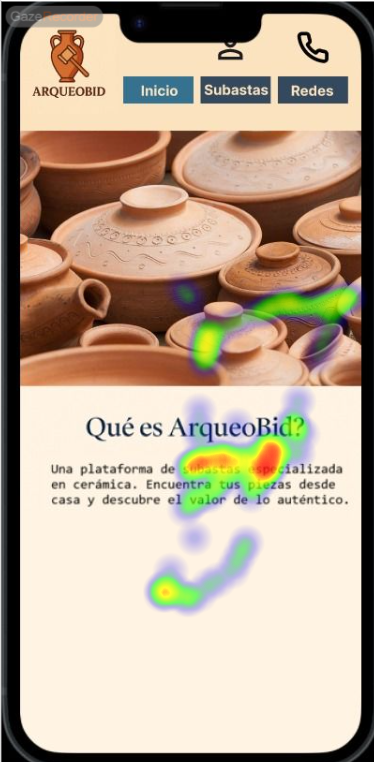
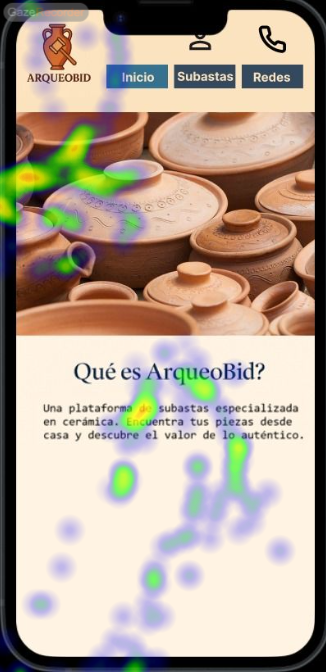
Arreglado problema de visualización del eye-tracking del caso B

diff --git a/P4/Usability-Report-template.md b/P4/Usability-Report-template.md
@@ -1,93 +1,80 @@
 # Usability Report
 
-<img src="https://github.com/DIU3-CarlonsoTech/UX_CaseStudy/blob/master/P2/Logo.png" alt="usability Download png" style="width: 25%; height: auto;" />
+<img src="https://encrypted-tbn0.gstatic.com/images?q=tbn:ANd9GcRF017nhV-TFmNER2OM8UbXtdN6xwAKBYrv0i6onNfKu6Yn0BV0RK6aiOroeXl73LSY-B0&usqp=CAU" alt="usability Download png" style="zoom:50%;" />
 
 #### Evaluación de usabilidad del proyecto 
 ### ArqueoBid
 ### 30/05/25
 
-
-
-
-
-[img Proyecto]
+<img src="https://github.com/DIU3-CarlonsoTech/UX_CaseStudy/blob/master/P2/Logo.png" alt="usability Download png" style="width: 25%; height: auto;" />
 
 [Enlace a GITHUB del proyecto](https://github.com/DIU3-CarlonsoTech/UX_CaseStudy)
 
 
-
-
-
 ### Realizado por:
 
-[Informe realizado por Equipo (quien hace el report) explicar brevemente vuestra experiencia ]
-
-
-
-
-
-
-
-
-
+* :bust_in_silhouette:  Javier García Valderrama (https://github.com/NoVa-5516)    :octocat:     
+* :bust_in_silhouette:  Rubén Hidalgo Troyano (https://github.com/RuHiTro)     :octocat:
 
 
 ## 1 DESCRIPCIÓN DEL WEBSITE
 
-[Incluir un breve resumen el propósito de la App]
-
- 
-
+El proyecto ArqueoBid tiene por objetivo la adición de un sistema de subastas a la plataforma Kerarqueo, permitiendo así que compradores y vendedores intercambien piezas arqueológicas. La intención de la propuesta es fomentar la difusión y preservación del patrimonio arqueológico mediante un entorno digital especializado.
 
 
 ## 2 RESUMEN EJECUTIVO
 
+Este documento es un informe de usabilidad, que contiene los resultados de un estudio realizado de forma comparativa (por A/B Testing) entre nuestra propuesta y esta. A continuación se detallarán la metodología seguida, además de exponer las conclusiones obtenidas a raíz de los resultados del estudio.
 
-
-[ Breve descripción de lo que contiene el documento 
-
-y Resumen conciso de problemas detectados ]
-
-
-
-
-
-
-
-
+A modo de resumen breve de los problemas encontrados, muchos de los usuarios reportaron tener problemas con ciertos elementos de la interfaz. Entre otras cosas, también se ha detectado que algunas partes importantes
+del diseño no han logrado captar la atención de los usuarios.
 
 ## 3 METODOLOGIA 
 
 #### Metodología de usabililidad
 
-[Metodología, sesiones,  técnicas aplicadas... ]
+Este estudio se ha basado en emplear A/B Testing para, de forma comparativa, analizar y evaluar la usabilidad tanto de nuestra propuesta como la valorada en este informe.
 
+Para este estudio concreto, se han usado varios tipos de pruebas, entrelazados de modo que se obtuviesen la mayor cantidad de datos útiles posibles: preguntas previas -> eye-tracking -> tareas en prototipo -> preguntas posteriores. Para poder crear y realizar las pruebas, han sido necesarias herramientas como Maze (https://maze.co/) o GazeRecorder (https://gazerecorder.com/).
+
+Debido a la naturaleza de este estudio, las pruebas fueron diseñadas para poder ejecutarse de forma remota o presencial, con las debidas instrucciones dadas a los usuarios para que pudieran realizar su aportación debidamente.
  
 
 #### Test de usuarios: Participantes
 
-[tabla, ejemplo, descripción demográfica de los participantes]
+Estos fueron los usuarios reclutados para la realización del estudio mediante A/B Testing:
 
-
-
+| # Id Usuario  | Sexo/Edad | Ocupación   |  Exp.TIC    | Plataforma | Caso
+| ------------- | --------- | ----------- | ----------- | ---------- | ----
+| 1  | H / 21    | Estudiante universitario  | Alta        | Web, remoto       | A 
+| 2  | M / 23    | Cajera de supermercado      | Media       | Web, remoto        | A 
+| 3  | M / 45    | Limpiadora     | Baja        | Web, presencial      |  A
+| 4  | H / 16    | Estudiante de secundaria | Media       | Web, presencial        | B 
+| 5  | H / 59    | Supervisor de ventas | Media-baja       | Web, presencial        | B 
 
 
 #### Resultados obtenidos
 
+##### Preguntas previas y posteriores (mediante Maze)
+
+A través de una serie de preguntas previas, se ha determinado que los usuarios reclutados para valorar el caso B no suelen adquirir artículos por Internet con demasiada frecuencia y que ninguno ha asistido alguna vez a una subasta de productos.
+
+Con las preguntas posteriores realizadas, los usuarios han mostrado de forma unánime su descontento con el posicionamiento del icono de acceso a la pantalla de perfil, el cual estaba parcialmente cubierto por el marco del prototipo. Otro aspecto en el que se han puesto de acuerdo los usuarios es la facilidad de uso con la que cuenta la aplicación.
+
+##### Eye-tracking (mediante GazeRecorder)
+
+A continuación, se muestran los resultados de eye-tracking llevados a cabo para este caso
+
+![inicio_b5](./eye_tracking/usuario_5/inicio_b5.png)
+![subasta_b5](./eye_tracking/usuario_5/subasta_b5.png)
+
+![inicio_b4](./eye_tracking/usuario_4/inicio_b4.png)
+![subasta_b4](./eye_tracking/usuario_4/subasta_b4.png)
+
+Como se puede apreciar, la parte superior (logotipo y navegación) pasan desapercibidos, concentrándose la atención de los usuarios en la zona central de la pantalla. 
 
 
-(resultado de SUS)
-
-
-
-(resultado de eyetracking)
-
-
-
-
-
-
-
+##### Cuestionario SUS (System Usability Scale)
 
 
 ## 4 CONCLUSIONES 
